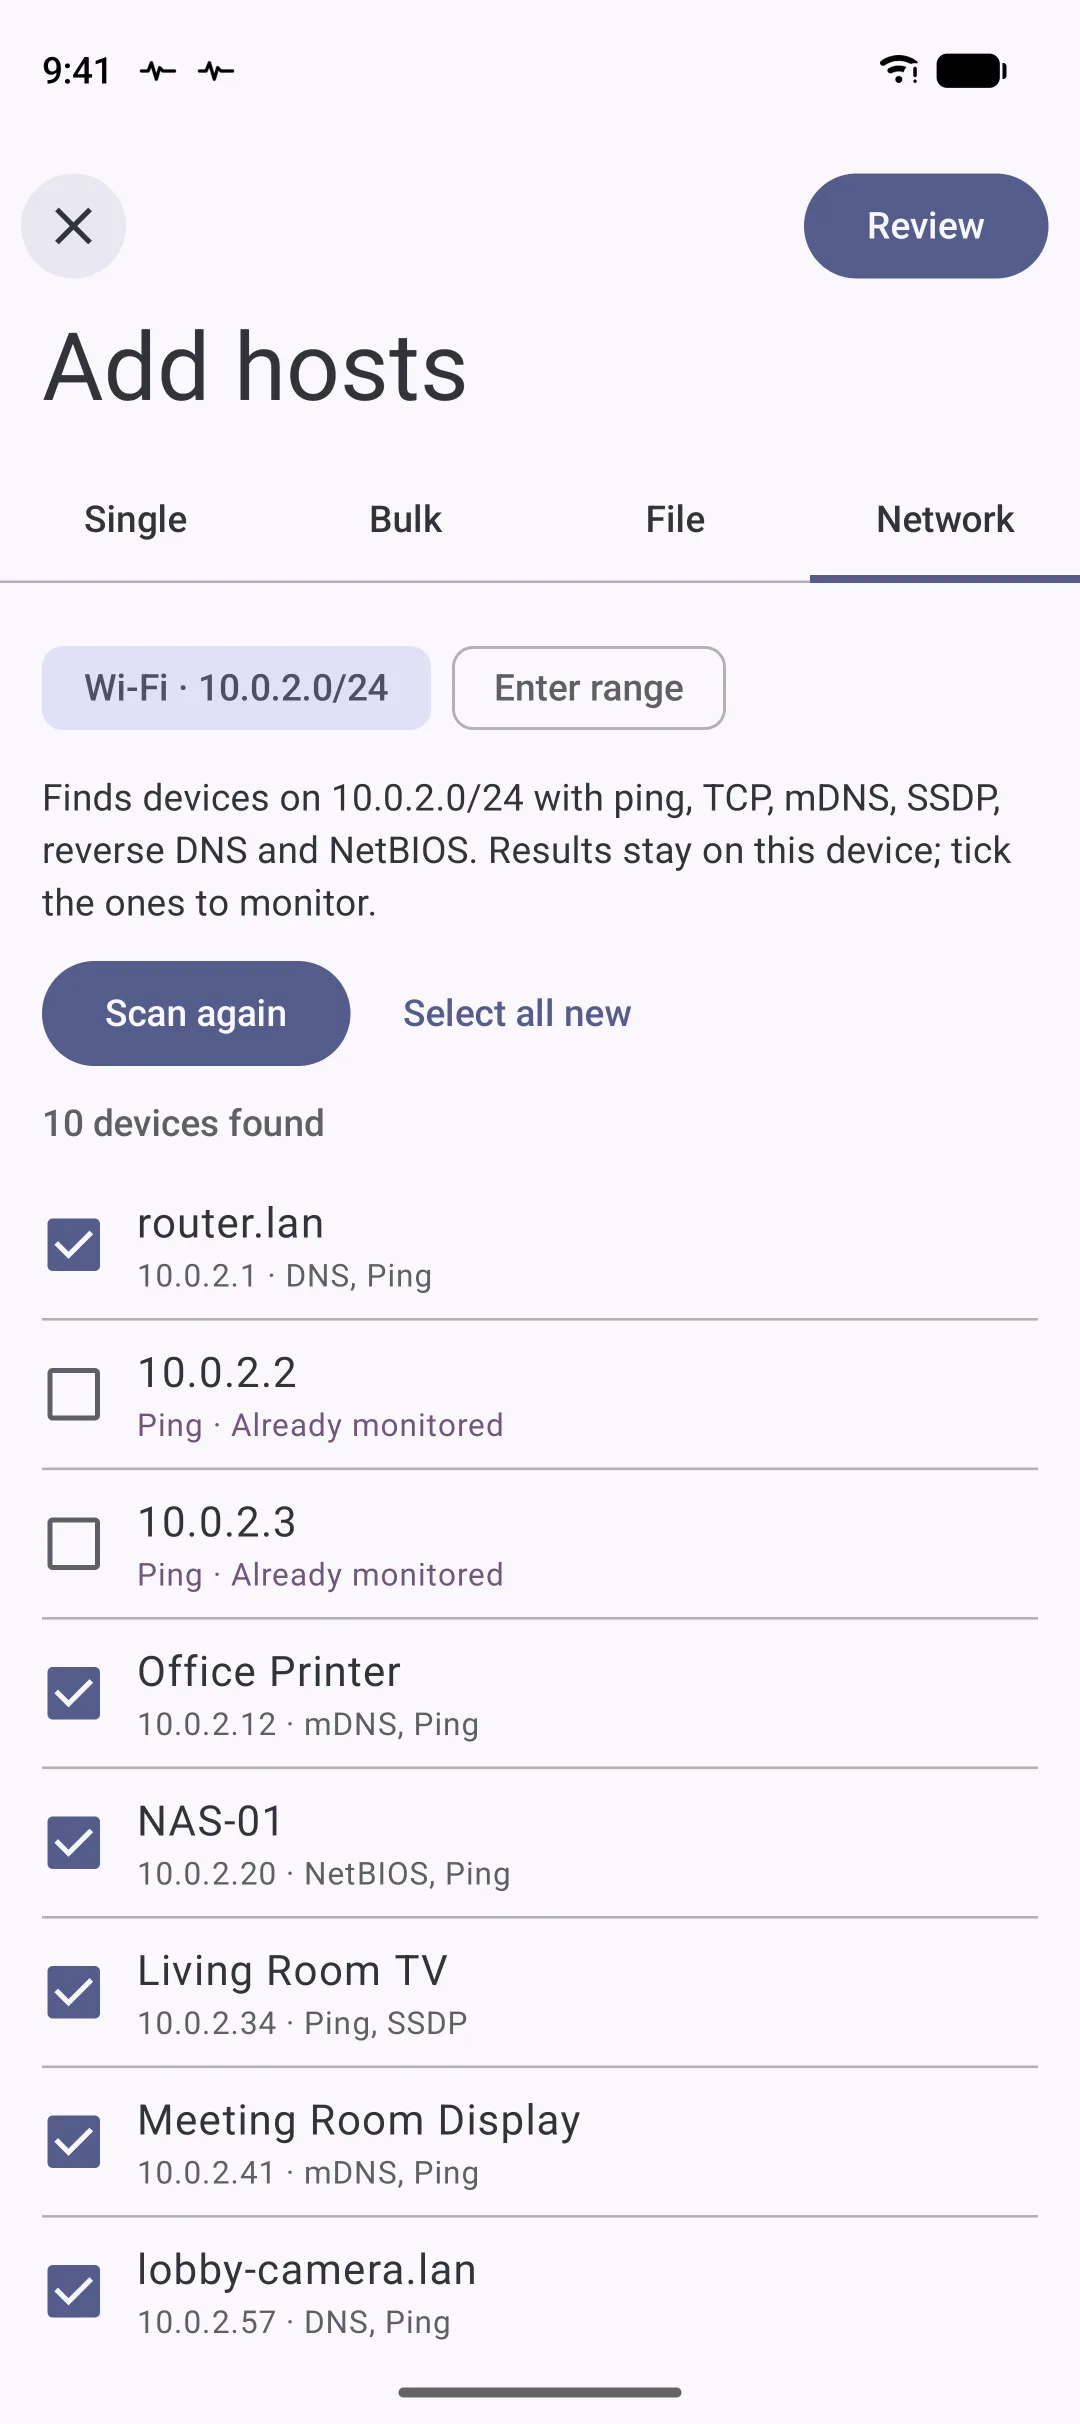
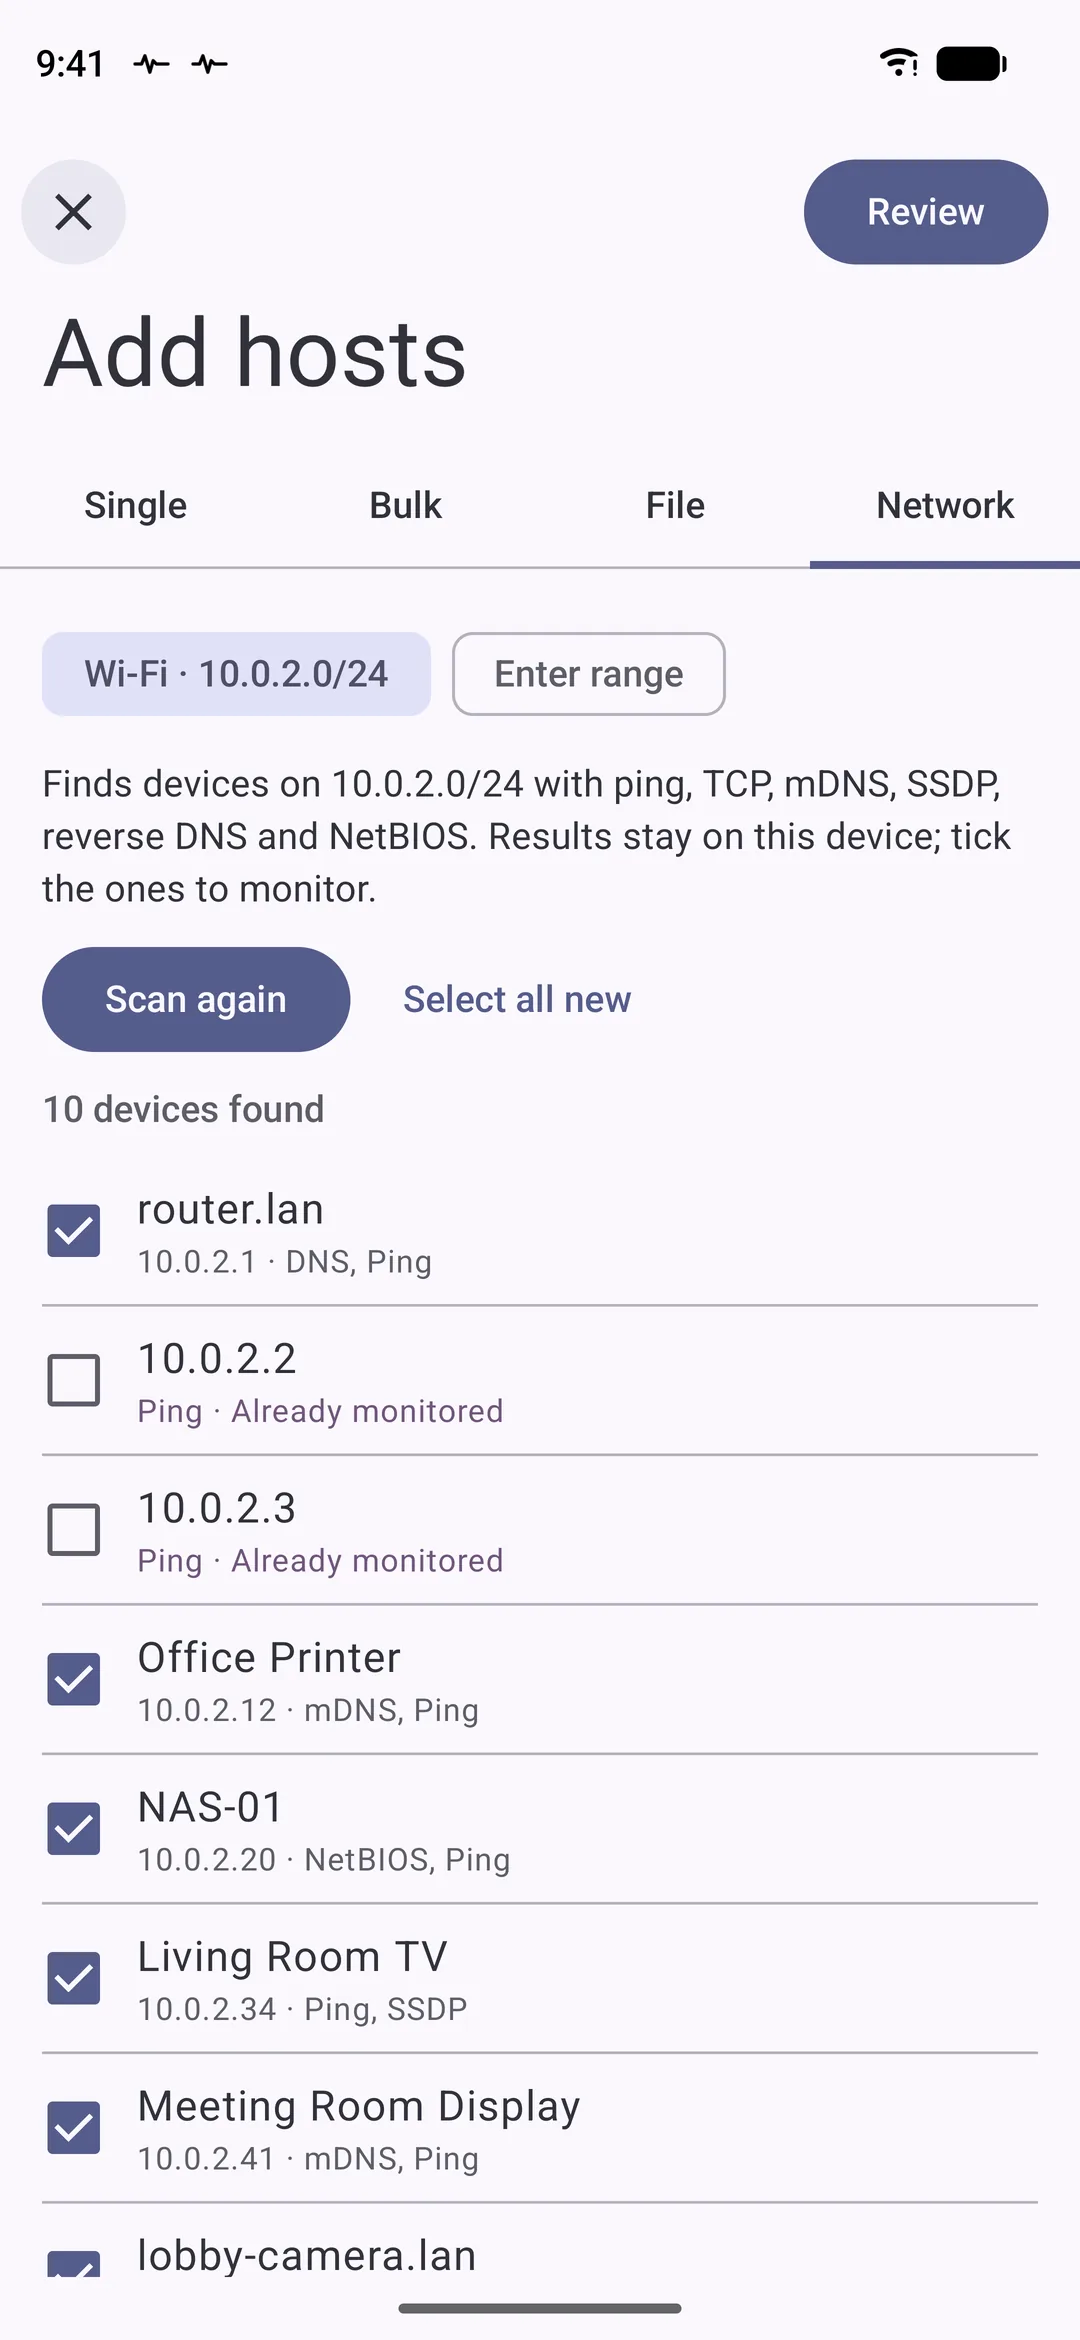
feat(pingdeck): use the recaptured galaxy_s26 add hosts screen

diff --git a/docs/development.md b/docs/development.md
@@ -74,7 +74,7 @@ Every page uses `src/apps/gps-go/layouts/Base.astro`, which takes the page's tit
 
 ### Screenshots
 
-`src/apps/gps-go/assets/showcase/` holds the Places, running-map and joystick captures behind the store feature graphic (`gps-go/captures/phone/feature-*` in app-assets, `~/Developer/yanerapps-studio/shared/app-assets`), cut to the part each card shows and saved at 2x as WebP. PingDeck's `src/apps/pingdeck/assets/screens/` come the same way from `pingdeck/captures/phone/`: whole screens at 1080 × 2340, plus crops of the notification shade and the latency chart; the widget shot is an older hand-taken capture, and `add-network` stays the Pixel_10 one because the Galaxy run caught its title mid-collapse. `scripts/store-crops.sh` cuts all of them, with each crop listed at the top; re-run it after store-kit recaptures, and re-measure a crop (and the hero card size in `Hero.astro`) when that screen's layout changed.
+`src/apps/gps-go/assets/showcase/` holds the Places, running-map and joystick captures behind the store feature graphic (`gps-go/captures/phone/feature-*` in app-assets, `~/Developer/yanerapps-studio/shared/app-assets`), cut to the part each card shows and saved at 2x as WebP. PingDeck's `src/apps/pingdeck/assets/screens/` come the same way from `pingdeck/captures/phone/`: whole screens at 1080 × 2340, plus crops of the notification shade and the latency chart; the widget shot is an older hand-taken capture. `scripts/store-crops.sh` cuts all of them, with each crop listed at the top; re-run it after store-kit recaptures, and re-measure a crop (and the hero card size in `Hero.astro`) when that screen's layout changed.
 
 Everything in `src/apps/gps-go/assets/screens/` comes as a `-light` / `-dark` pair captured from the app itself on the `Galaxy_S26` emulator (1080 × 2340, 420 dpi), and `Screenshot` / `PhoneFrame` take the pair as `src` and `dark` and show the one that matches the site theme. The `GuideScreenshots` instrumented test in the GPS-Go repository (`app/src/androidTest/.../store/`) drives every scene by itself, on the store demo backup with metric units, and cuts the parts the guide shows (the joystick window, settings rows, list pages) from the live layout.
 
